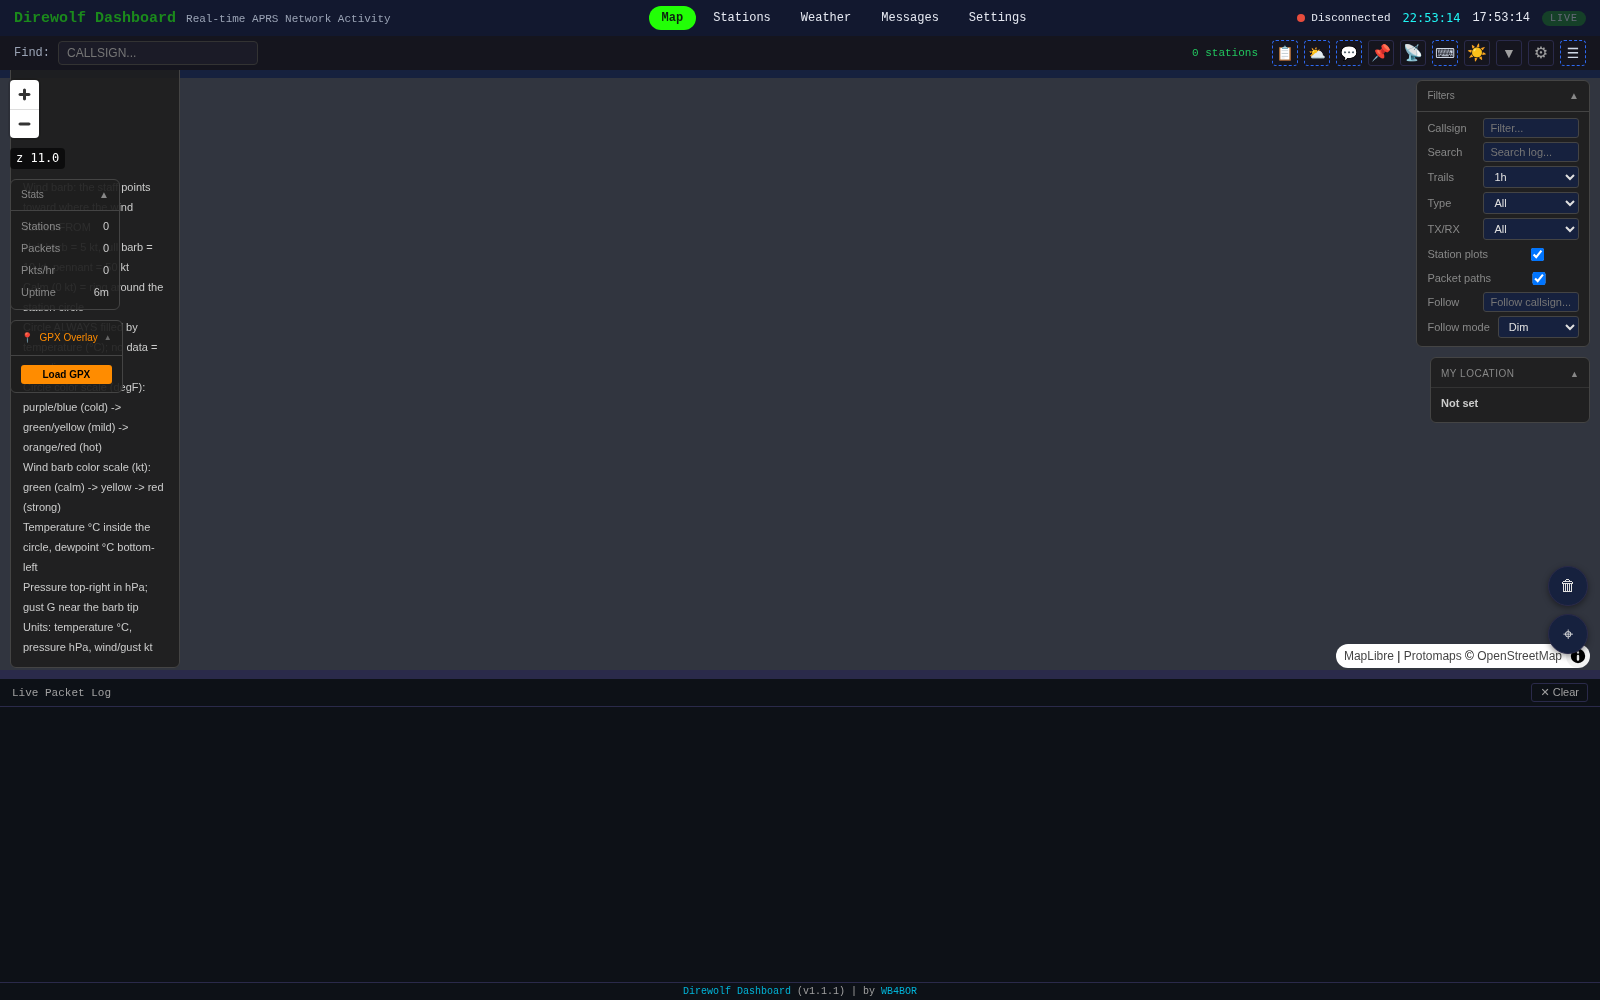
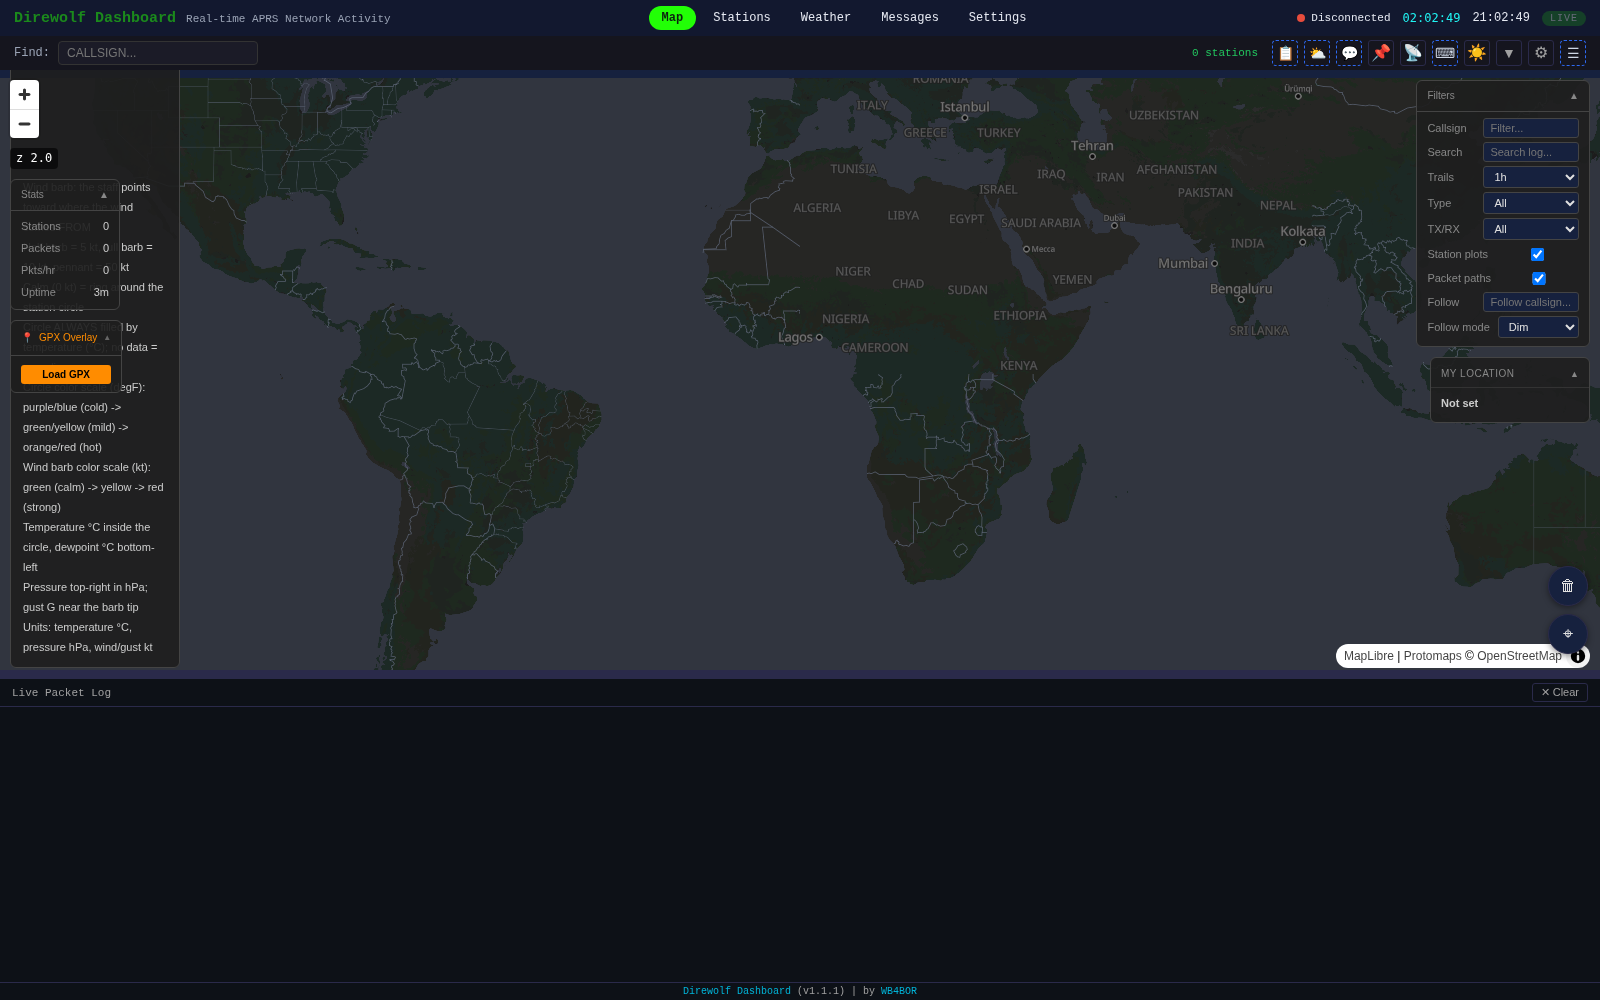
fix(toolbar): keep the tool panel below the top toolbar bands (issue #218)
Hemna rework: the open tool panel must never cover #topnav or #toolrow.
The panel is now a normal-flow flex child of the <body> column instead of
an absolute overlay, so it sits below both bands and cannot obscure them.

Adds a layout regression test and fresh 1600x1000 screenshots (collapsed
and open) committed under docs/screenshots/.

diff --git a/src/direwolf_dashboard/static/style.css b/src/direwolf_dashboard/static/style.css
@@ -2841,13 +2841,12 @@ kbd {
 [data-theme="light"] .tool-toggle { border-color: #2E69F2; color: #1c2333; }
 [data-theme="light"] .tool-toggle.on { background: #dbe7ff; }
 #toolpanel {
-    position: absolute;
-    top: 8px;
-    left: 8px;
-    bottom: 8px;
+    /* issue #218 rework (2026-11-09): the panel is a normal-flow child of the
+     * <body> flex column, sitting BELOW the two toolbar bands (#topnav, #toolrow).
+     * It must never cover either band when open, so it is not positioned. */
+    align-self: flex-start;
+    margin: 8px 0 0 8px;
     width: 254px;
-    /* above #topnav/#toolrow (both z-index 110) so the TOOLS header and close stay clickable */
-    z-index: 120;
     background: var(--overlay-bg);
     border: 1px solid var(--overlay-border);
     border-radius: 8px;

diff --git a/tests/test_toolpanel_layout.py b/tests/test_toolpanel_layout.py
@@ -1,0 +1,30 @@
+"""Tool panel must never cover the top toolbar bands (issue #218, 2026-11-09)."""
+from pathlib import Path
+import direwolf_dashboard
+
+
+def test_toolpanel_must_not_cover_toolbar_bands():
+    """The tool panel (issue #218) must sit BELOW the two top toolbar bands.
+
+    Hemna rework (2026-11-09): with the panel open it must NEVER cover
+    #topnav or #toolrow.  The panel is a normal-flow <body> flex child, so it
+    must not use position absolute/top that would overlay the bands.
+    """
+    css = (
+        Path(direwolf_dashboard.__file__).parent / "static" / "style.css"
+    ).read_text(encoding="utf-8")
+    start = css.index("#toolpanel {")
+    block = css[start:css.index("}", start) + 1]
+    assert "#toolpanel" in block
+    # Regression guard: the panel must not be pulled out of flow over the bars.
+    assert "position: absolute" not in block, \
+        "toolpanel must be a normal-flow flex child, not an overlay"
+    assert "z-index" not in block, \
+        "toolpanel must not stack above the toolbar bands"
+    # It must be a flex-column child of <body> (flex-direction: column).
+    assert "align-self: flex-start" in block, \
+        "toolpanel must align itself against the left of the flex column"
+    body_start = css.index("\nbody {\n")
+    body_block = css[body_start:css.index("}", body_start) + 1]
+    assert "flex-direction: column" in body_block, \
+        "body must lay children out as a column so the panel falls below the bands"
